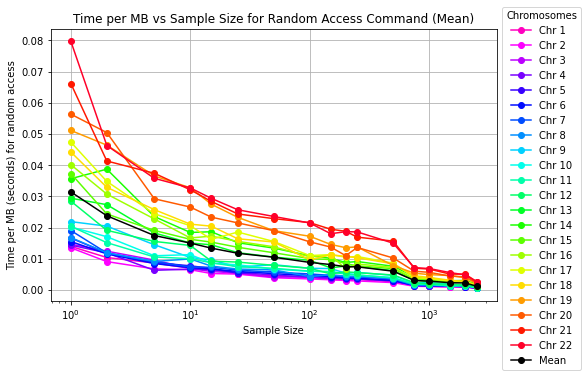
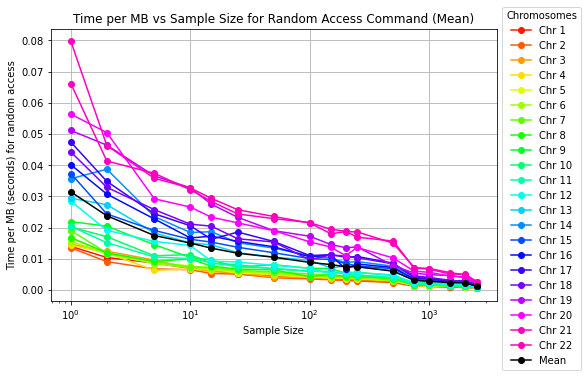
Correct for color coherence

diff --git a/Codes/TimePerMB_vs_SampleSize.py b/Codes/TimePerMB_vs_SampleSize.py
@@ -7,6 +7,7 @@ Created on Tue Nov 12 16:21:16 2024
 
 import pandas as pd
 import matplotlib.pyplot as plt
+import numpy as np
 
 
 #%%
@@ -42,13 +43,13 @@ ALL_random_access_df = ALL_df[ALL_df['Command'] == 'random_access']
 
 # Define a color map for chromosomes
 colors = plt.cm.tab10  # You can also use other color maps like 'viridis', 'plasma', etc.
-unique_chromosomes = df['Chromosome'].unique()
+unique_chromosomes = np.sort(df['Chromosome'].unique())
 
 # Define the colormap with unique colors
-num_colors = len(unique_chromosomes)
+num_colors = 22
 cmap = plt.cm.get_cmap("gist_rainbow", num_colors)  # 'tab20' or 'hsv', or any other suitable colormap
 # Assign colors to each chromosome
-color_map = {chromosome: cmap(i) for i, chromosome in enumerate(unique_chromosomes)}
+color_map = {chromosome: cmap(chromosome) for i, chromosome in enumerate(unique_chromosomes)}
 
 
 # Plot for the "compress" command
@@ -149,13 +150,13 @@ ALL_random_access_one_sample_df = ALL_df[ALL_df['Command'] == 'random_access_one
 
 # Define a color map for chromosomes
 colors = plt.cm.tab10  # You can also use other color maps like 'viridis', 'plasma', etc.
-unique_chromosomes = df['Chromosome'].unique()
+unique_chromosomes = np.sort(df['Chromosome'].unique())
 
 # Define the colormap with unique colors
-num_colors = len(unique_chromosomes)
+num_colors = 22
 cmap = plt.cm.get_cmap("gist_rainbow", num_colors)  # 'tab20' or 'hsv', or any other suitable colormap
 # Assign colors to each chromosome
-color_map = {chromosome: cmap(i) for i, chromosome in enumerate(unique_chromosomes)}
+color_map = {chromosome: cmap(chromosome) for i, chromosome in enumerate(unique_chromosomes)}
 
 
 # Plot for the "compress" command

diff --git a/Codes/RAMperMB_vs_SampleSize.py b/Codes/RAMperMB_vs_SampleSize.py
@@ -35,10 +35,10 @@ ALL_random_access_df = ALL_df[ALL_df['Command'] == 'random_access']
 
 unique_chromosomes = df['Chromosome'].unique()
 # Define the colormap with unique colors
-num_colors = len(unique_chromosomes)
+num_colors = 22
 cmap = plt.cm.get_cmap("gist_rainbow", num_colors)  # 'tab20' or 'hsv', or any other suitable colormap
 # Assign colors to each chromosome
-color_map = {chromosome: cmap(i) for i, chromosome in enumerate(unique_chromosomes)}
+color_map = {chromosome: cmap(chromosome) for i, chromosome in enumerate(unique_chromosomes)}
 
 
 # Plot for the "compress" command
@@ -120,10 +120,10 @@ ALL_random_access_one_sample_df = ALL_df[ALL_df['Command'] == 'random_access_one
 
 unique_chromosomes = df['Chromosome'].unique()
 # Define the colormap with unique colors
-num_colors = len(unique_chromosomes)
+num_colors = 22
 cmap = plt.cm.get_cmap("gist_rainbow", num_colors)  # 'tab20' or 'hsv', or any other suitable colormap
 # Assign colors to each chromosome
-color_map = {chromosome: cmap(i) for i, chromosome in enumerate(unique_chromosomes)}
+color_map = {chromosome: cmap(chromosome) for i, chromosome in enumerate(unique_chromosomes)}
 
 
 # Plot for the "compress" command

diff --git a/Codes/CompRatio_vs_SampleSize.py b/Codes/CompRatio_vs_SampleSize.py
@@ -33,10 +33,10 @@ compression_ratio_df = merged_df[['Chromosome', 'Sample_Size', 'Compression_Rati
 compression_ratio_df.loc[:,'Input_file_size_compress'] = compression_ratio_df['Input_file_size_compress'] / (1024**3)
 
 # Define the colormap with unique colors
-num_colors = len(df['Chromosome'].unique())
+num_colors = 22
 cmap = plt.cm.get_cmap("gist_rainbow", num_colors)  # 'tab20' or 'hsv', or any other suitable colormap
 # Assign colors to each chromosome
-color_map = {chromosome: cmap(i) for i, chromosome in enumerate(df['Chromosome'].unique())}
+color_map = {chromosome: cmap(chromosome) for i, chromosome in enumerate(np.sort(df['Chromosome'].unique()))}
 
 # Display the result DataFrame
 print(compression_ratio_df)
